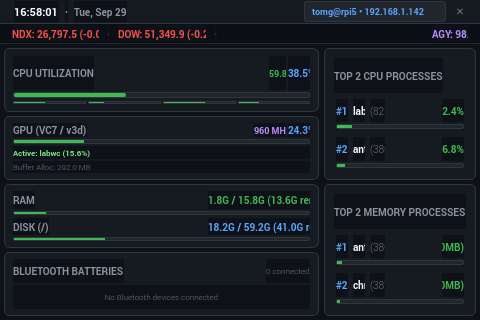
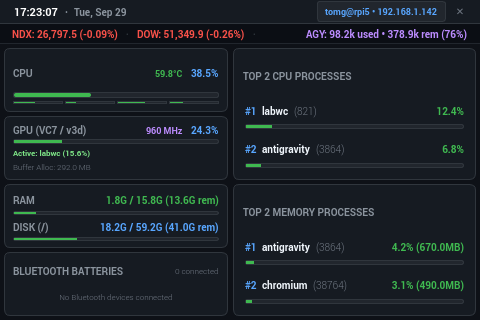
fix: resolve font black background, CPU card sizing, and label misalignments

diff --git a/ui/dashboard_view.py b/ui/dashboard_view.py
@@ -34,15 +34,16 @@ class DashboardView(QWidget):
         # CPU Header
         cpu_head = QHBoxLayout()
         cpu_head.setContentsMargins(0, 0, 0, 0)
-        cpu_title = QLabel("CPU UTILIZATION")
-        cpu_title.setStyleSheet("color: #8b949e; font-size: 8.5px; font-weight: 700;")
+        cpu_title = QLabel("CPU")
+        cpu_title.setStyleSheet("color: #8b949e; font-size: 8.5px; font-weight: 700; background: transparent;")
         self.cpu_val = QLabel("0.0%")
-        self.cpu_val.setStyleSheet("color: #58a6ff; font-size: 10px; font-weight: 700;")
+        self.cpu_val.setStyleSheet("color: #58a6ff; font-size: 10px; font-weight: 700; background: transparent;")
         self.cpu_temp = QLabel("--°C")
-        self.cpu_temp.setStyleSheet("color: #d29922; font-size: 9px; font-weight: 600;")
+        self.cpu_temp.setStyleSheet("color: #d29922; font-size: 9px; font-weight: 600; background: transparent;")
         cpu_head.addWidget(cpu_title)
         cpu_head.addStretch()
         cpu_head.addWidget(self.cpu_temp)
+        cpu_head.addSpacing(6)
         cpu_head.addWidget(self.cpu_val)
 
         # CPU Main Meter
@@ -74,14 +75,15 @@ class DashboardView(QWidget):
         gpu_head = QHBoxLayout()
         gpu_head.setContentsMargins(0, 0, 0, 0)
         gpu_title = QLabel("GPU (VC7 / v3d)")
-        gpu_title.setStyleSheet("color: #8b949e; font-size: 8.5px; font-weight: 700;")
+        gpu_title.setStyleSheet("color: #8b949e; font-size: 8.5px; font-weight: 700; background: transparent;")
         self.gpu_val = QLabel("0.0%")
-        self.gpu_val.setStyleSheet("color: #58a6ff; font-size: 10px; font-weight: 700;")
+        self.gpu_val.setStyleSheet("color: #58a6ff; font-size: 10px; font-weight: 700; background: transparent;")
         self.gpu_clk = QLabel("--- MHz")
-        self.gpu_clk.setStyleSheet("color: #bc8cff; font-size: 9px; font-weight: 600;")
+        self.gpu_clk.setStyleSheet("color: #bc8cff; font-size: 9px; font-weight: 600; background: transparent;")
         gpu_head.addWidget(gpu_title)
         gpu_head.addStretch()
         gpu_head.addWidget(self.gpu_clk)
+        gpu_head.addSpacing(6)
         gpu_head.addWidget(self.gpu_val)
 
         # GPU Meter
@@ -89,11 +91,11 @@ class DashboardView(QWidget):
 
         # Active process causing GPU utilization
         self.gpu_proc = QLabel("Active: Idle")
-        self.gpu_proc.setStyleSheet("color: #8b949e; font-size: 8px; font-weight: 600;")
+        self.gpu_proc.setStyleSheet("color: #8b949e; font-size: 8px; font-weight: 600; background: transparent;")
 
         # GPU Subtext (Buffer memory)
         self.gpu_sub = QLabel("Buffer Alloc: 0.0 MB")
-        self.gpu_sub.setStyleSheet("color: #6e7681; font-size: 8px;")
+        self.gpu_sub.setStyleSheet("color: #6e7681; font-size: 8px; background: transparent;")
 
         gpu_layout.addLayout(gpu_head)
         gpu_layout.addWidget(self.gpu_meter)
@@ -112,9 +114,9 @@ class DashboardView(QWidget):
         ram_head = QHBoxLayout()
         ram_head.setContentsMargins(0, 0, 0, 0)
         ram_title = QLabel("RAM")
-        ram_title.setStyleSheet("color: #8b949e; font-size: 8.5px; font-weight: 700;")
+        ram_title.setStyleSheet("color: #8b949e; font-size: 8.5px; font-weight: 700; background: transparent;")
         self.ram_val = QLabel("0.0G / 0.0G (0.0G rem)")
-        self.ram_val.setStyleSheet("color: #3fb950; font-size: 8.5px; font-weight: 600;")
+        self.ram_val.setStyleSheet("color: #3fb950; font-size: 8.5px; font-weight: 600; background: transparent;")
         ram_head.addWidget(ram_title)
         ram_head.addStretch()
         ram_head.addWidget(self.ram_val)
@@ -125,9 +127,9 @@ class DashboardView(QWidget):
         disk_head = QHBoxLayout()
         disk_head.setContentsMargins(0, 1, 0, 0)
         disk_title = QLabel("DISK (/)")
-        disk_title.setStyleSheet("color: #8b949e; font-size: 8.5px; font-weight: 700;")
+        disk_title.setStyleSheet("color: #8b949e; font-size: 8.5px; font-weight: 700; background: transparent;")
         self.disk_val = QLabel("0.0G / 0.0G (0.0G rem)")
-        self.disk_val.setStyleSheet("color: #58a6ff; font-size: 8.5px; font-weight: 600;")
+        self.disk_val.setStyleSheet("color: #58a6ff; font-size: 8.5px; font-weight: 600; background: transparent;")
         disk_head.addWidget(disk_title)
         disk_head.addStretch()
         disk_head.addWidget(self.disk_val)
@@ -150,16 +152,16 @@ class DashboardView(QWidget):
         bt_head = QHBoxLayout()
         bt_head.setContentsMargins(0, 0, 0, 0)
         bt_title = QLabel("BLUETOOTH BATTERIES")
-        bt_title.setStyleSheet("color: #8b949e; font-size: 8.5px; font-weight: 700;")
+        bt_title.setStyleSheet("color: #8b949e; font-size: 8.5px; font-weight: 700; background: transparent;")
         self.bt_count = QLabel("0 connected")
-        self.bt_count.setStyleSheet("color: #6e7681; font-size: 8px;")
+        self.bt_count.setStyleSheet("color: #6e7681; font-size: 8px; background: transparent;")
         bt_head.addWidget(bt_title)
         bt_head.addStretch()
         bt_head.addWidget(self.bt_count)
 
         self.bt_empty_label = QLabel("No Bluetooth devices connected")
         self.bt_empty_label.setAlignment(Qt.AlignCenter)
-        self.bt_empty_label.setStyleSheet("color: #6e7681; font-size: 8px; padding: 2px 0px;")
+        self.bt_empty_label.setStyleSheet("color: #6e7681; font-size: 8px; padding: 2px 0px; background: transparent;")
 
         # Pre-allocate 2 device rows
         self.bt_rows = [BluetoothDeviceRow(), BluetoothDeviceRow()]
@@ -191,7 +193,7 @@ class DashboardView(QWidget):
         proc_cpu_head = QHBoxLayout()
         proc_cpu_head.setContentsMargins(0, 0, 0, 0)
         proc_cpu_title = QLabel("TOP 2 CPU PROCESSES")
-        proc_cpu_title.setStyleSheet("color: #8b949e; font-size: 8.5px; font-weight: 700;")
+        proc_cpu_title.setStyleSheet("color: #8b949e; font-size: 8.5px; font-weight: 700; background: transparent;")
         proc_cpu_head.addWidget(proc_cpu_title)
         proc_cpu_head.addStretch()
 
@@ -213,7 +215,7 @@ class DashboardView(QWidget):
         proc_mem_head = QHBoxLayout()
         proc_mem_head.setContentsMargins(0, 0, 0, 0)
         proc_mem_title = QLabel("TOP 2 MEMORY PROCESSES")
-        proc_mem_title.setStyleSheet("color: #8b949e; font-size: 8.5px; font-weight: 700;")
+        proc_mem_title.setStyleSheet("color: #8b949e; font-size: 8.5px; font-weight: 700; background: transparent;")
         proc_mem_head.addWidget(proc_mem_title)
         proc_mem_head.addStretch()
 
@@ -238,7 +240,7 @@ class DashboardView(QWidget):
         if temp > 0:
             self.cpu_temp.setText(f"{temp:.1f}°C")
             color = "#f85149" if temp >= 75.0 else ("#d29922" if temp >= 65.0 else "#3fb950")
-            self.cpu_temp.setStyleSheet(f"color: {color}; font-size: 9px; font-weight: 600;")
+            self.cpu_temp.setStyleSheet(f"color: {color}; font-size: 9px; font-weight: 600; background: transparent;")
 
         per_core = cpu.get("per_core", [])
         for i, val in enumerate(per_core[:4]):
@@ -266,10 +268,10 @@ class DashboardView(QWidget):
                 self.gpu_proc.setText(f"Active: {disp_name} ({active_pct:.1f}%)")
             else:
                 self.gpu_proc.setText(f"Active: {disp_name}")
-            self.gpu_proc.setStyleSheet("color: #7ee787; font-size: 8px; font-weight: 600;")
+            self.gpu_proc.setStyleSheet("color: #7ee787; font-size: 8px; font-weight: 600; background: transparent;")
         else:
             self.gpu_proc.setText("Active: Idle")
-            self.gpu_proc.setStyleSheet("color: #8b949e; font-size: 8px; font-weight: 600;")
+            self.gpu_proc.setStyleSheet("color: #8b949e; font-size: 8px; font-weight: 600; background: transparent;")
 
         # RAM & Disk Storage
         storage = data.get("storage", {})

diff --git a/ui/components.py b/ui/components.py
@@ -35,6 +35,14 @@ class CompactMeter(QProgressBar):
             }}
         """)
 
+    def sizeHint(self):
+        from PyQt5.QtCore import QSize
+        return QSize(20, self.height())
+
+    def minimumSizeHint(self):
+        from PyQt5.QtCore import QSize
+        return QSize(10, self.height())
+
 
 class ProcessRow(QWidget):
     """Single compact row for a process in Top 2 list."""
@@ -50,17 +58,17 @@ class ProcessRow(QWidget):
         top_row.setSpacing(5)
 
         self.rank_label = QLabel(f"#{rank}")
-        self.rank_label.setStyleSheet("color: #58a6ff; font-weight: 700; font-size: 10px;")
+        self.rank_label.setStyleSheet("color: #58a6ff; font-weight: 700; font-size: 10px; background: transparent;")
 
         self.name_label = QLabel("---")
-        self.name_label.setStyleSheet("color: #f0f6fc; font-weight: 600; font-size: 10px;")
+        self.name_label.setStyleSheet("color: #f0f6fc; font-weight: 600; font-size: 10px; background: transparent;")
 
         self.pid_label = QLabel("(---)")
-        self.pid_label.setStyleSheet("color: #6e7681; font-size: 8.5px;")
+        self.pid_label.setStyleSheet("color: #6e7681; font-size: 8.5px; background: transparent;")
 
         self.val_label = QLabel("0.0%")
         self.val_label.setAlignment(Qt.AlignRight | Qt.AlignVCenter)
-        self.val_label.setStyleSheet("color: #3fb950; font-weight: 700; font-size: 10px;")
+        self.val_label.setStyleSheet("color: #3fb950; font-weight: 700; font-size: 10px; background: transparent;")
 
         top_row.addWidget(self.rank_label)
         top_row.addWidget(self.name_label)
@@ -94,14 +102,14 @@ class BluetoothDeviceRow(QWidget):
         layout.setSpacing(5)
 
         self.icon_label = QLabel("⚡")
-        self.icon_label.setStyleSheet("color: #58a6ff; font-size: 9px;")
+        self.icon_label.setStyleSheet("color: #58a6ff; font-size: 9px; background: transparent;")
 
         self.name_label = QLabel("---")
-        self.name_label.setStyleSheet("color: #f0f6fc; font-weight: 500; font-size: 9px;")
+        self.name_label.setStyleSheet("color: #f0f6fc; font-weight: 500; font-size: 9px; background: transparent;")
         self.name_label.setMaximumWidth(110)
 
         self.battery_label = QLabel("--%")
-        self.battery_label.setStyleSheet("color: #3fb950; font-weight: 700; font-size: 9px;")
+        self.battery_label.setStyleSheet("color: #3fb950; font-weight: 700; font-size: 9px; background: transparent;")
 
         self.meter = QProgressBar()
         self.meter.setFixedSize(36, 6)
@@ -123,7 +131,7 @@ class BluetoothDeviceRow(QWidget):
             self.battery_label.setText(f"{battery}%")
             self.meter.setValue(battery)
             color = get_battery_color(battery)
-            self.battery_label.setStyleSheet(f"color: {color}; font-weight: 700; font-size: 9px;")
+            self.battery_label.setStyleSheet(f"color: {color}; font-weight: 700; font-size: 9px; background: transparent;")
             self.meter.setStyleSheet(f"""
                 QProgressBar {{
                     background-color: #21262d;
@@ -138,7 +146,7 @@ class BluetoothDeviceRow(QWidget):
             self.meter.show()
         else:
             self.battery_label.setText("N/A")
-            self.battery_label.setStyleSheet("color: #6e7681; font-size: 9px;")
+            self.battery_label.setStyleSheet("color: #6e7681; font-size: 9px; background: transparent;")
             self.meter.hide()
 
 
@@ -156,23 +164,23 @@ class TickerRibbon(QFrame):
 
         # NASDAQ
         self.ndx_label = QLabel("NDX: 18,200.0 (---)")
-        self.ndx_label.setStyleSheet("font-size: 8.5px; font-weight: 600; color: #8b949e;")
+        self.ndx_label.setStyleSheet("font-size: 8.5px; font-weight: 600; color: #8b949e; background: transparent;")
 
         # Divider 1
         dot1 = QLabel("•")
-        dot1.setStyleSheet("color: #30363d; font-size: 8px;")
+        dot1.setStyleSheet("color: #30363d; font-size: 8px; background: transparent;")
 
         # DOW
         self.dow_label = QLabel("DOW: 42,100.0 (---)")
-        self.dow_label.setStyleSheet("font-size: 8.5px; font-weight: 600; color: #8b949e;")
+        self.dow_label.setStyleSheet("font-size: 8.5px; font-weight: 600; color: #8b949e; background: transparent;")
 
         # Divider 2
         dot2 = QLabel("•")
-        dot2.setStyleSheet("color: #30363d; font-size: 8px;")
+        dot2.setStyleSheet("color: #30363d; font-size: 8px; background: transparent;")
 
         # Antigravity Tokens
         self.agy_label = QLabel("AGY: ---")
-        self.agy_label.setStyleSheet("font-size: 8.5px; font-weight: 700; color: #bc8cff;")
+        self.agy_label.setStyleSheet("font-size: 8.5px; font-weight: 700; color: #bc8cff; background: transparent;")
 
         layout.addWidget(self.ndx_label)
         layout.addWidget(dot1)
@@ -190,7 +198,7 @@ class TickerRibbon(QFrame):
             sign = "+" if pct >= 0 else ""
             color = "#3fb950" if pct >= 0 else "#f85149"
             self.ndx_label.setText(f"NDX: {price:,.1f} ({sign}{pct:.2f}%)")
-            self.ndx_label.setStyleSheet(f"font-size: 8.5px; font-weight: 600; color: {color};")
+            self.ndx_label.setStyleSheet(f"font-size: 8.5px; font-weight: 600; color: {color}; background: transparent;")
 
         # DOW
         dow = quotes.get("^DJI")
@@ -200,7 +208,7 @@ class TickerRibbon(QFrame):
             sign = "+" if pct >= 0 else ""
             color = "#3fb950" if pct >= 0 else "#f85149"
             self.dow_label.setText(f"DOW: {price:,.1f} ({sign}{pct:.2f}%)")
-            self.dow_label.setStyleSheet(f"font-size: 8.5px; font-weight: 600; color: {color};")
+            self.dow_label.setStyleSheet(f"font-size: 8.5px; font-weight: 600; color: {color}; background: transparent;")
 
     def update_tokens(self, token_data: dict):
         session = token_data.get("session_tokens", 0)

diff --git a/ui/window.py b/ui/window.py
@@ -75,6 +75,7 @@ class MainWindow(QMainWindow):
 
     def init_ui(self):
         container = QWidget(self)
+        container.setObjectName("centralWidget")
         self.setCentralWidget(container)
         root_layout = QVBoxLayout(container)
         root_layout.setContentsMargins(0, 0, 0, 0)
@@ -91,14 +92,14 @@ class MainWindow(QMainWindow):
         # Time & Date display
         self.time_label = QLabel("00:00:00")
         self.time_label.setProperty("class", "timeLabel")
-        self.time_label.setStyleSheet("color: #ffffff; font-weight: 700; font-size: 11px;")
+        self.time_label.setStyleSheet("color: #ffffff; font-weight: 700; font-size: 11px; background: transparent;")
 
         self.date_sep = QLabel("•")
-        self.date_sep.setStyleSheet("color: #8b949e; font-size: 9px;")
+        self.date_sep.setStyleSheet("color: #8b949e; font-size: 9px; background: transparent;")
 
         self.date_label = QLabel("Mon, Jan 1")
         self.date_label.setProperty("class", "dateLabel")
-        self.date_label.setStyleSheet("color: #8b949e; font-weight: 500; font-size: 10px;")
+        self.date_label.setStyleSheet("color: #8b949e; font-weight: 500; font-size: 10px; background: transparent;")
 
         header_layout.addWidget(self.time_label)
         header_layout.addWidget(self.date_sep)

diff --git a/ui/styles.py b/ui/styles.py
@@ -2,10 +2,18 @@
 
 DARK_THEME = """
 QWidget {
-    background-color: #0e1117;
     color: #f0f6fc;
     font-family: -apple-system, BlinkMacSystemFont, "Segoe UI", "PibotoLt", "DejaVu Sans", Ubuntu, sans-serif;
     font-size: 10px;
+}
+
+QMainWindow, QWidget#centralWidget {
+    background-color: #0e1117;
+}
+
+QLabel {
+    background: transparent;
+    background-color: transparent;
 }
 
 QFrame.metricCard {

diff --git a/README.md b/README.md
@@ -58,7 +58,7 @@ A high-performance, hardware-accelerated, dark-themed system monitor tailored sp
 +-----------------------------------------------------------------------------------+
 | NDX: 26,797.5 (-0.09%) • DOW: 51,349.9 (-0.26%) • AGY: 66.9k used • 433.1k rem(87%)| <- Ticker (20px)
 +----------------------------------------+------------------------------------------+
-| CPU UTILIZATION          60.0°C  40.0% | TOP 2 CPU PROCESSES                      |
+| CPU                      60.0°C  40.0% | TOP 2 CPU PROCESSES                      |
 | [====================--------]         | #1 python3 (17)                     0.0% |
 | [-] [-] [-] [-] (4-core mini bars)     | [----------------------------------------|
 +----------------------------------------+ #2 exe (1)                          0.0% |
